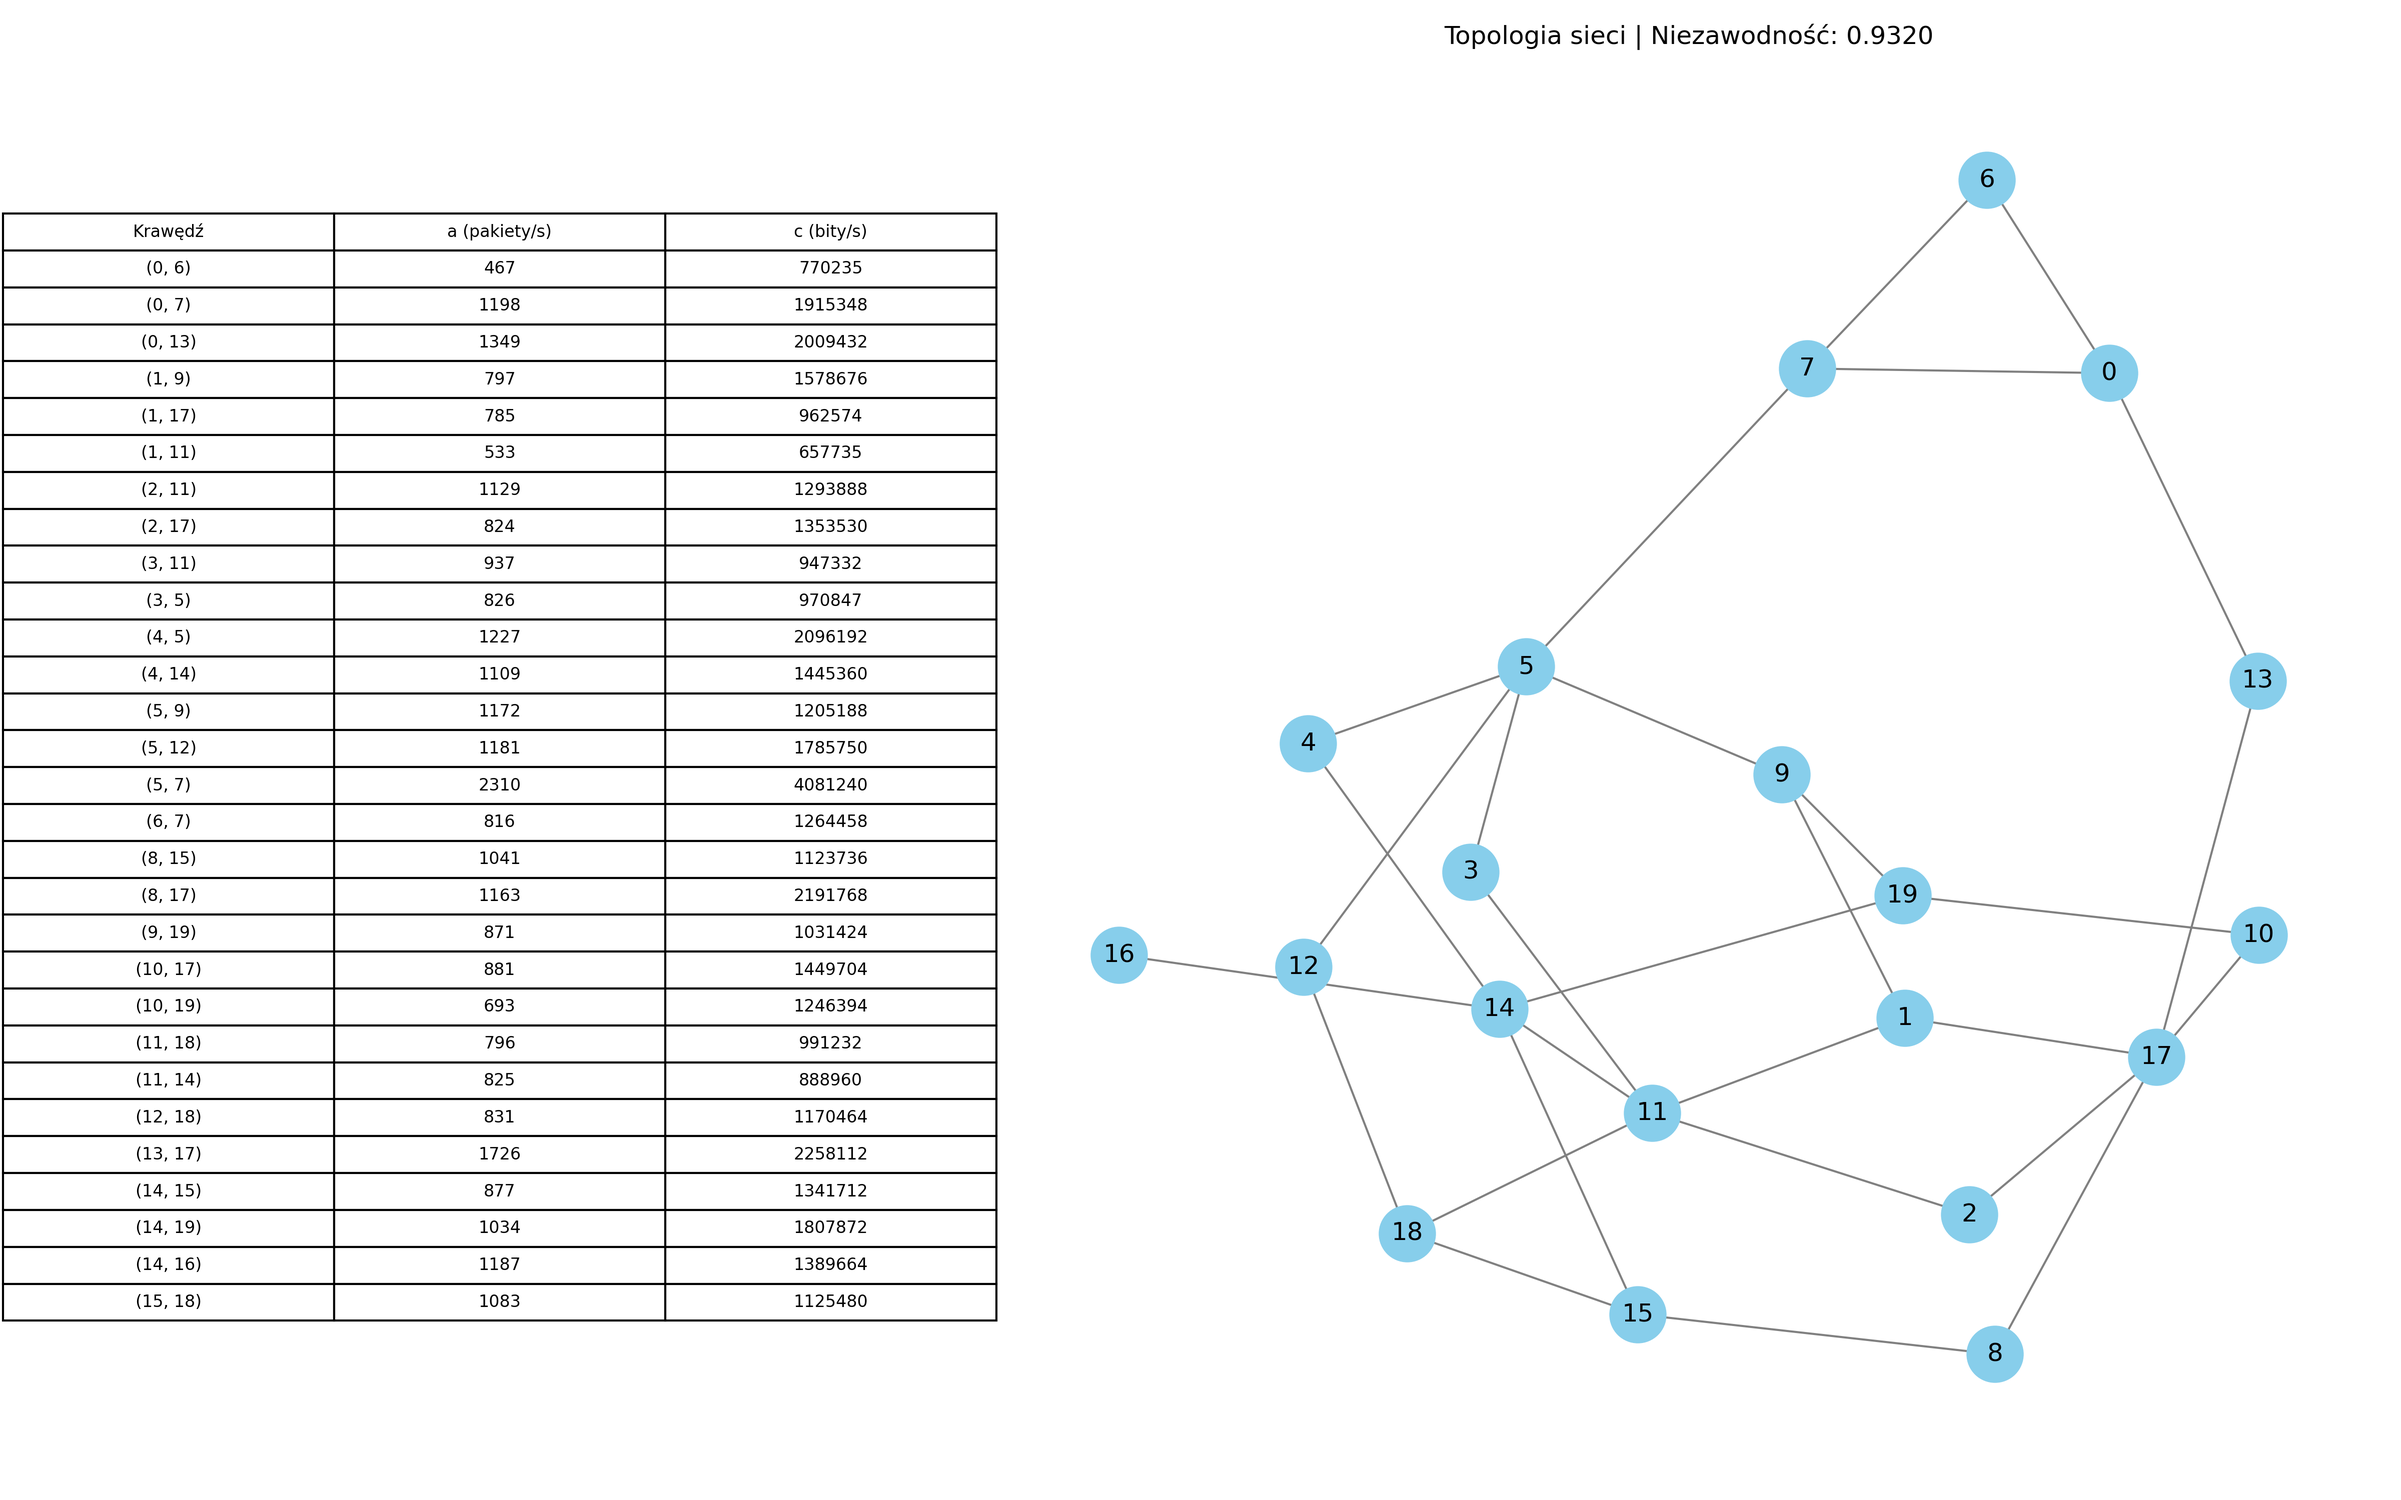
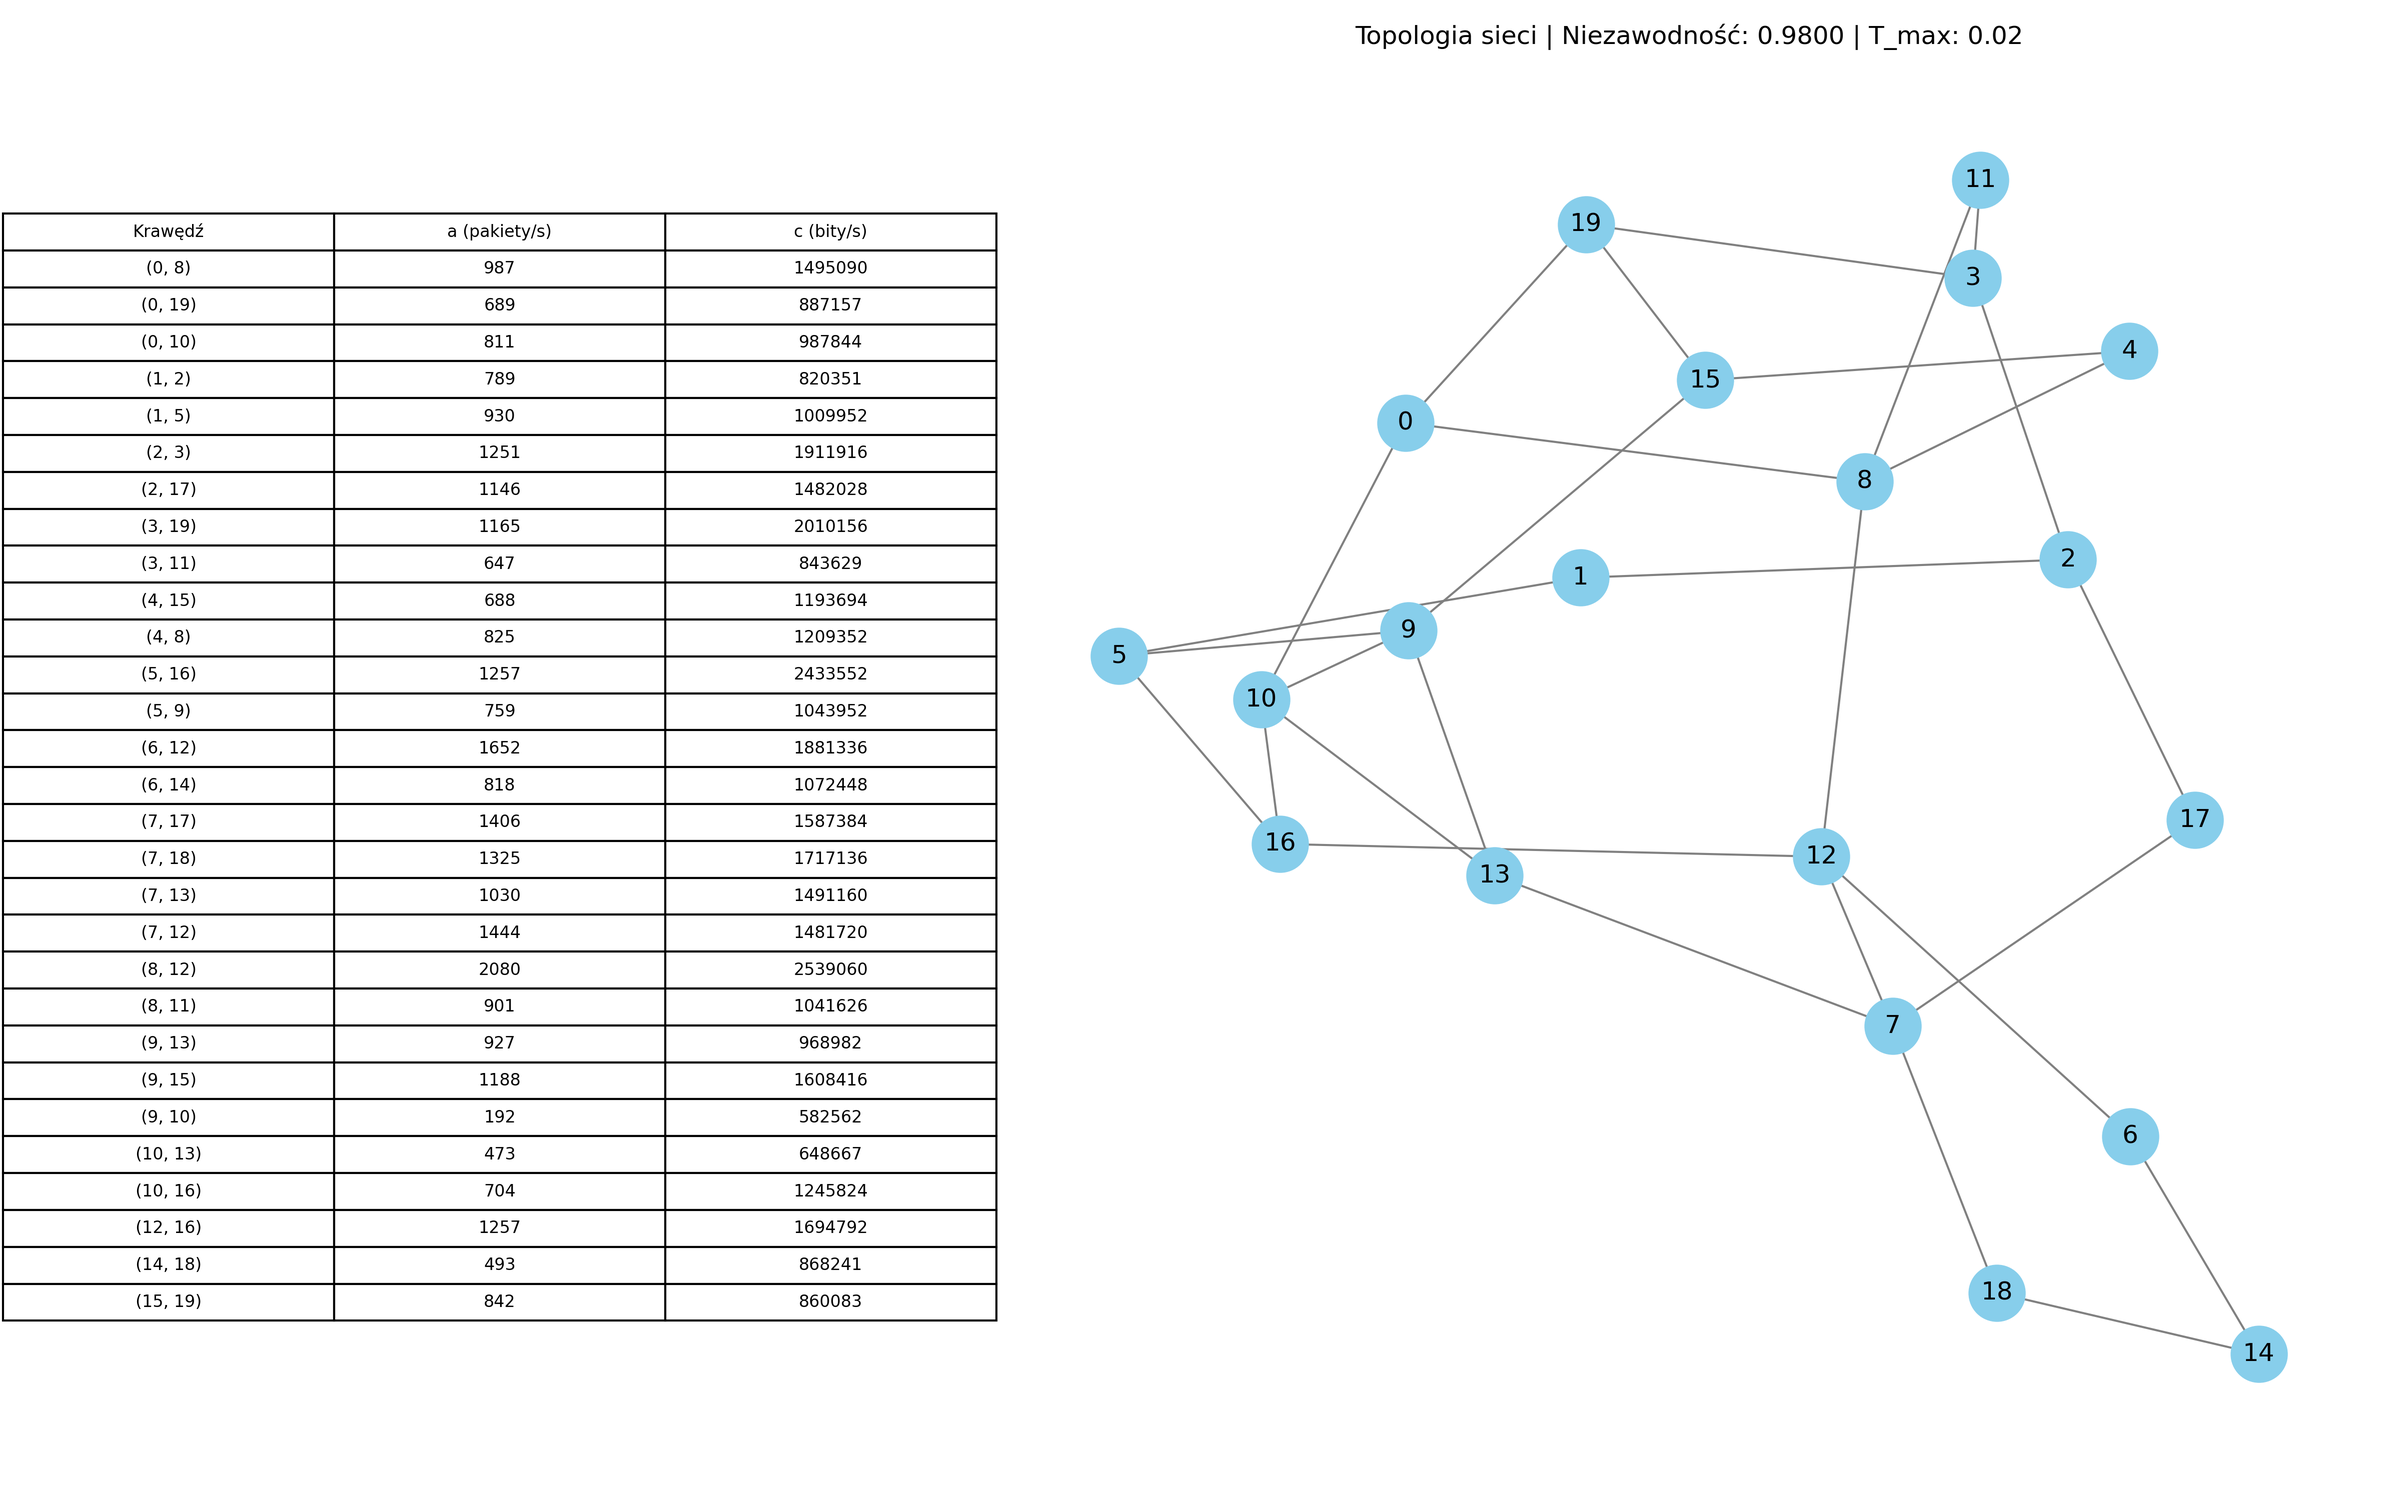
vibe codee

diff --git a/TS/list3/main.py b/TS/list3/main.py
@@ -4,6 +4,7 @@ import numpy as np
 import pandas as pd
 from matplotlib.gridspec import GridSpec
 
+
 # Generowanie grafu G
 def generate_graph():
     while True:
@@ -89,7 +90,7 @@ def best_configuration(k=10, T_max=0.05, p=0.95):
     return best_data, best_reliability
 
 # Zapis grafu i statystyk do pliku PNG z tabelką
-def save_graph_with_table(G, N, c, a, reliability, filename="best_network.png"):
+def save_graph_with_table(G, N, c, a, reliability, T_max ,filename="best_network.png"):
     fig = plt.figure(figsize=(16, 10))
     gs = GridSpec(1, 2, width_ratios=[1.2, 2])
 
@@ -110,7 +111,7 @@ def save_graph_with_table(G, N, c, a, reliability, filename="best_network.png"):
     ax1 = fig.add_subplot(gs[1])
     pos = nx.spring_layout(G, seed=42)
     nx.draw(G, pos, ax=ax1, with_labels=True, node_color='skyblue', node_size=700, edge_color='gray')
-    ax1.set_title(f"Topologia sieci | Niezawodność: {reliability:.4f}")
+    ax1.set_title(f"Topologia sieci | Niezawodność: {reliability:.4f} | T_max: {T_max}")
     ax1.axis('off')
 
     plt.tight_layout()
@@ -123,14 +124,75 @@ def save_graph_with_table(G, N, c, a, reliability, filename="best_network.png"):
                                 index=[f"v({i})" for i in range(size)])
     labeled_N.to_csv("best_N.csv", sep='|', encoding='utf-8')
 
-# Przykład użycia
 
-# zedytuje tak żeby sie dało edytowac w trakcie:
-# tj dodawać krawędzie i zmieniać przepustowości
+def test_reliability_vs_traffic(G, N, c, a, T_max=0.02, p=0.95, steps=50):
+    results = []
+    for factor in np.linspace(1, 5, steps):
+        N_scaled = (N * factor).astype(int)
+        reliability = simulate_reliability(G, c, a, N_scaled, T_max, p)
+        results.append((factor, reliability))
+    plot_results(results, 'Skalowanie natężeń (x)', 'Niezawodność', 'Niezawodność vs Skalowanie natężeń')
+    return results
+
+def test_reliability_vs_capacity(G, N, c, a, T_max=0.02, p=0.95, steps=50):
+    results = []
+    for factor in np.linspace(1, 5, steps):
+        c_scaled = {e: int(cap * factor) for e, cap in c.items()}
+        reliability = simulate_reliability(G, c_scaled, a, N, T_max, p)
+        results.append((factor, reliability))
+    plot_results(results, 'Skalowanie przepustowości (x)', 'Niezawodność', 'Niezawodność vs Skalowanie przepustowości')
+    return results
+
+def test_reliability_vs_topology(G_init, N, c_init, a_init, T_max=0.02, p=0.95, steps=20):
+    G = G_init.copy()
+    c = c_init.copy()
+    a = a_init.copy()
+    pos = list(G.nodes())
+    avg_capacity = int(np.mean(list(c.values())))
+    added = 0
+    results = []
+
+    while added < steps:
+        i, j = np.random.choice(pos, 2, replace=False)
+        if not G.has_edge(i, j):
+            G.add_edge(i, j)
+            edge = tuple(sorted((i, j)))
+            c[edge] = avg_capacity
+            a[edge] = 0
+            reliability = simulate_reliability(G, c, a, N, T_max, p)
+            results.append((G.number_of_edges(), reliability))
+            added += 1
+    plot_results(results, 'Liczba krawędzi', 'Niezawodność', 'Niezawodność vs Zmiany topologii')
+    return results
+
+def plot_results(results, xlabel, ylabel, title):
+    x_vals, y_vals = zip(*results)
+    plt.figure(figsize=(8, 5))
+    plt.plot(x_vals, y_vals, marker='o', linestyle='-', color='tab:blue')
+    plt.xlabel(xlabel)
+    plt.ylabel(ylabel)
+    plt.title(title)
+    plt.grid(True)
+    plt.tight_layout()
+    plt.savefig(f"{title.replace(' ', '_').lower()}.png", dpi=300)
+    plt.close()
+
+
 if __name__ == "__main__":
-    (G, N, c, a), reliability = best_configuration(k=150, T_max=0.05, p=0.95)
+    (G, N, c, a), reliability = best_configuration(k=150, T_max=0.02, p=0.95)
     print(f"Najlepsza niezawodność: {reliability:.4f}")
 
-    save_graph_with_table(G, N, c, a, reliability)
+    save_graph_with_table(G, N, c, a, reliability, T_max=0.02)
     print("Wizualizacja z tabelą zapisana do 'best_network.png'")
     print("Macierz natężeń zapisana do 'best_N.csv'")
+
+    print("Uruchamianie testów niezawodności...")
+
+    test_reliability_vs_traffic(G, N, c, a)
+    print("Zapisano wykres: niezawodność vs skalowanie natężeń")
+
+    test_reliability_vs_capacity(G, N, c, a)
+    print("Zapisano wykres: niezawodność vs skalowanie przepustowości")
+
+    test_reliability_vs_topology(G, N, c, a)
+    print("Zapisano wykres: niezawodność vs zmiany topologii")
